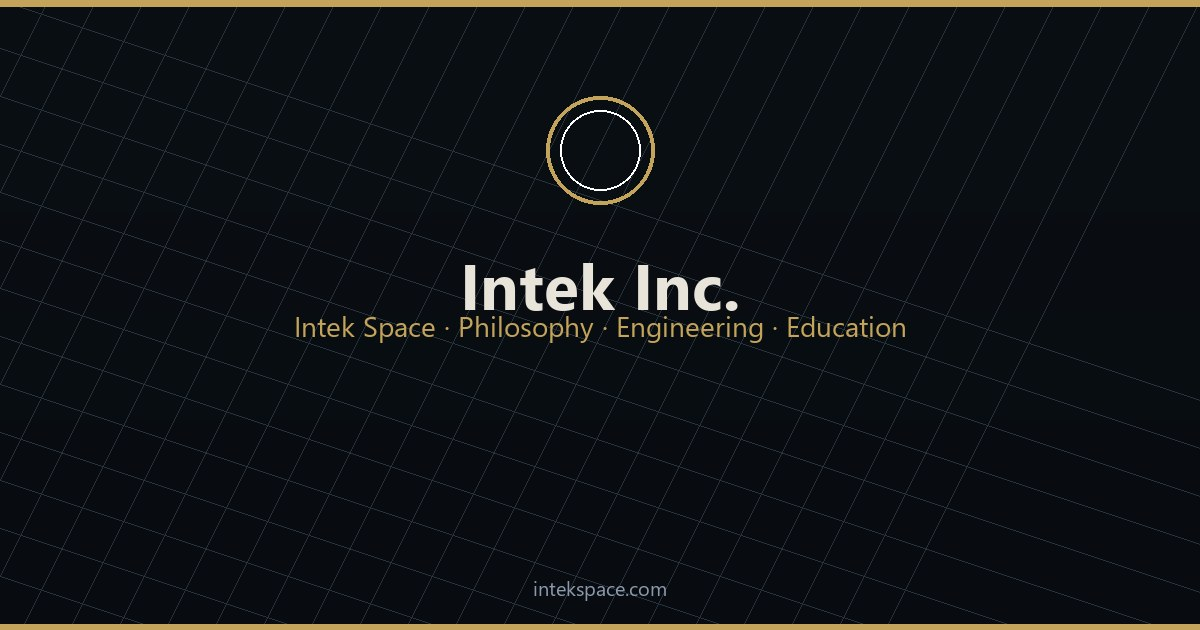
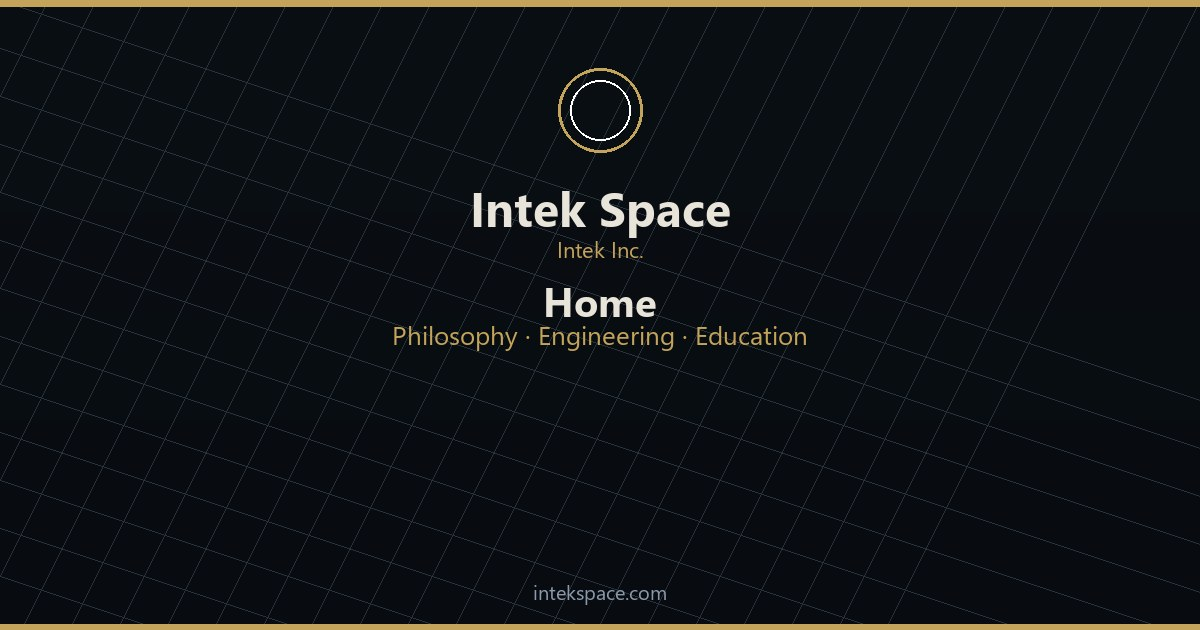
fix(brand): Intek Space primary, Intek Inc. secondary; page titles on OG cards

Changed region(s): [[0.2467, 0.3921, 0.7708, 0.573], [0.37, 0.0905, 0.6167, 0.3921], [0.4317, 0.9048, 0.555, 0.9651]]

diff --git a/js/site-chrome.js b/js/site-chrome.js
@@ -62,12 +62,16 @@
       '<div class="max-w-5xl mx-auto px-4 h-14 flex items-center justify-between gap-4">' +
       '<a href="' +
       esc(chrome.home_href || 'index.html') +
-      '" class="flex items-center gap-2.5 text-parchment min-w-0" title="Intek Inc. · Intek Space">' +
+      '" class="flex items-center gap-2.5 text-parchment min-w-0" title="Intek Space · Intek Inc.">' +
       '<span class="w-8 h-8 shrink-0 rounded-lg bg-hive/20 text-hive text-xs font-bold flex items-center justify-center">' +
       esc(chrome.mark || 'IS') +
       '</span><span class="flex flex-col leading-tight min-w-0">' +
-      '<span class="font-display text-base sm:text-lg truncate">Intek Inc.</span>' +
-      '<span class="text-[10px] sm:text-[11px] text-mist font-sans tracking-wide">Intek Space</span>' +
+      '<span class="font-display text-base sm:text-lg truncate">' +
+      esc(chrome.brand_primary || 'Intek Space') +
+      '</span>' +
+      '<span class="text-[10px] sm:text-[11px] text-mist font-sans tracking-wide">' +
+      esc(chrome.brand_secondary || 'Intek Inc.') +
+      '</span>' +
       '</span></a>' +
       '<nav class="hidden md:flex items-center gap-6">' +
       desktop +
@@ -106,7 +110,11 @@
       '<div class="flex flex-col sm:flex-row sm:items-center sm:justify-between gap-3">' +
       '<div>© <span id="y">' +
       year() +
-      '</span> Intek Inc. · Intek Space</div>' +
+      '</span> ' +
+      esc(chrome.brand_primary || 'Intek Space') +
+      ' · ' +
+      esc(chrome.brand_secondary || 'Intek Inc.') +
+      '</div>' +
       '<div class="flex flex-wrap gap-x-2 gap-y-1">' +
       navBits +
       '</div></div>' +

diff --git a/poop-to-loop.html b/poop-to-loop.html
@@ -11,11 +11,11 @@
   <meta property="og:description" content="Poop-to-Loop - substantial residual conversion project under hard refusals. Death-to-life breathe, sector overlays. Intek Space." />
   <meta property="og:type" content="website" />
   <meta property="og:url" content="https://intekspace.com/poop-to-loop" />
-  <meta property="og:image" content="https://intekspace.com/assets/og/og-poop-to-loop.jpg?v=20260802d" />
+  <meta property="og:image" content="https://intekspace.com/assets/og/og-poop-to-loop.jpg?v=20260802e" />
   <meta property="og:image:width" content="1200" />
   <meta property="og:image:height" content="630" />
   <meta name="twitter:card" content="summary_large_image" />
-  <meta name="twitter:image" content="https://intekspace.com/assets/og/og-poop-to-loop.jpg?v=20260802d" />
+  <meta name="twitter:image" content="https://intekspace.com/assets/og/og-poop-to-loop.jpg?v=20260802e" />
   <script src="analytics-config.js"></script>
   <script src="analytics.js" defer></script>
   <script src="https://cdn.tailwindcss.com"></script>

diff --git a/philosophy.html b/philosophy.html
@@ -11,11 +11,11 @@
   <meta property="og:description" content="Coherent writeup of Intek Space philosophy and nomenclature: death-to-life breathe, sector overlays, DMAIC, twin extremes, land per life." />
   <meta property="og:type" content="website" />
   <meta property="og:url" content="https://intekspace.com/philosophy" />
-  <meta property="og:image" content="https://intekspace.com/assets/og/og-philosophy.jpg?v=20260802d" />
+  <meta property="og:image" content="https://intekspace.com/assets/og/og-philosophy.jpg?v=20260802e" />
   <meta property="og:image:width" content="1200" />
   <meta property="og:image:height" content="630" />
   <meta name="twitter:card" content="summary_large_image" />
-  <meta name="twitter:image" content="https://intekspace.com/assets/og/og-philosophy.jpg?v=20260802d" />
+  <meta name="twitter:image" content="https://intekspace.com/assets/og/og-philosophy.jpg?v=20260802e" />
   <script src="analytics-config.js"></script>
   <script src="analytics.js" defer></script>
   <script src="https://cdn.tailwindcss.com"></script>

diff --git a/yard-to-loop.html b/yard-to-loop.html
@@ -11,11 +11,11 @@
   <meta property="og:description" content="Yard-to-Loop - substantial field conversion project. Land per life, death-to-life breathe, sector overlays. Intek Space." />
   <meta property="og:type" content="website" />
   <meta property="og:url" content="https://intekspace.com/yard-to-loop" />
-  <meta property="og:image" content="https://intekspace.com/assets/og/og-yard-to-loop.jpg?v=20260802d" />
+  <meta property="og:image" content="https://intekspace.com/assets/og/og-yard-to-loop.jpg?v=20260802e" />
   <meta property="og:image:width" content="1200" />
   <meta property="og:image:height" content="630" />
   <meta name="twitter:card" content="summary_large_image" />
-  <meta name="twitter:image" content="https://intekspace.com/assets/og/og-yard-to-loop.jpg?v=20260802d" />
+  <meta name="twitter:image" content="https://intekspace.com/assets/og/og-yard-to-loop.jpg?v=20260802e" />
   <script src="analytics-config.js"></script>
   <script src="analytics.js" defer></script>
   <script src="https://cdn.tailwindcss.com"></script>

diff --git a/projects.html b/projects.html
@@ -11,11 +11,11 @@
   <meta property="og:description" content="Intek Space projects: Hive King, Yard-to-Loop, Poop-to-Loop - substantial conversion systems under a philosophy of life." />
   <meta property="og:type" content="website" />
   <meta property="og:url" content="https://intekspace.com/projects" />
-  <meta property="og:image" content="https://intekspace.com/assets/og/og-projects.jpg?v=20260802d" />
+  <meta property="og:image" content="https://intekspace.com/assets/og/og-projects.jpg?v=20260802e" />
   <meta property="og:image:width" content="1200" />
   <meta property="og:image:height" content="630" />
   <meta name="twitter:card" content="summary_large_image" />
-  <meta name="twitter:image" content="https://intekspace.com/assets/og/og-projects.jpg?v=20260802d" />
+  <meta name="twitter:image" content="https://intekspace.com/assets/og/og-projects.jpg?v=20260802e" />
   <script src="analytics-config.js"></script>
   <script src="analytics.js" defer></script>
   <script src="https://cdn.tailwindcss.com"></script>

diff --git a/hive-king.html b/hive-king.html
@@ -11,11 +11,11 @@
   <meta property="og:description" content="An instrument for a living hive — vision at the door, sensing in the foundation, power from the sun." />
   <meta property="og:type" content="website" />
   <meta property="og:url" content="https://intekspace.com/hive-king" />
-  <meta property="og:image" content="https://intekspace.com/assets/og/og-hive-king.jpg?v=20260802d" />
+  <meta property="og:image" content="https://intekspace.com/assets/og/og-hive-king.jpg?v=20260802e" />
   <meta property="og:image:width" content="1200" />
   <meta property="og:image:height" content="630" />
   <meta name="twitter:card" content="summary_large_image" />
-  <meta name="twitter:image" content="https://intekspace.com/assets/og/og-hive-king.jpg?v=20260802d" />
+  <meta name="twitter:image" content="https://intekspace.com/assets/og/og-hive-king.jpg?v=20260802e" />
   <script src="analytics-config.js"></script>
   <script src="analytics.js" defer></script>
   <script src="https://cdn.tailwindcss.com"></script>

diff --git a/index.html b/index.html
@@ -11,11 +11,11 @@
   <meta property="og:description" content="All great works begin with a philosophy on life. Engineering under stewardship—the death-to-life breathe held in balance." />
   <meta property="og:type" content="website" />
   <meta property="og:url" content="https://intekspace.com/" />
-  <meta property="og:image" content="https://intekspace.com/assets/og/og-home.jpg?v=20260802d" />
+  <meta property="og:image" content="https://intekspace.com/assets/og/og-home.jpg?v=20260802e" />
   <meta property="og:image:width" content="1200" />
   <meta property="og:image:height" content="630" />
   <meta name="twitter:card" content="summary_large_image" />
-  <meta name="twitter:image" content="https://intekspace.com/assets/og/og-home.jpg?v=20260802d" />
+  <meta name="twitter:image" content="https://intekspace.com/assets/og/og-home.jpg?v=20260802e" />
   <script src="analytics-config.js"></script>
   <script src="analytics.js" defer></script>
   <script src="https://cdn.tailwindcss.com"></script>

diff --git a/education.html b/education.html
@@ -11,11 +11,11 @@
   <meta property="og:description" content="Intek Space Education Exchange - kit tracks, video evidence, honest energy and life learning." />
   <meta property="og:type" content="website" />
   <meta property="og:url" content="https://intekspace.com/education" />
-  <meta property="og:image" content="https://intekspace.com/assets/og/og-education.jpg?v=20260802d" />
+  <meta property="og:image" content="https://intekspace.com/assets/og/og-education.jpg?v=20260802e" />
   <meta property="og:image:width" content="1200" />
   <meta property="og:image:height" content="630" />
   <meta name="twitter:card" content="summary_large_image" />
-  <meta name="twitter:image" content="https://intekspace.com/assets/og/og-education.jpg?v=20260802d" />
+  <meta name="twitter:image" content="https://intekspace.com/assets/og/og-education.jpg?v=20260802e" />
   <script src="analytics-config.js"></script>
   <script src="analytics.js" defer></script>
   <script src="https://cdn.tailwindcss.com"></script>

diff --git a/education-apply.html b/education-apply.html
@@ -11,11 +11,11 @@
   <meta property="og:description" content="Apply to an Intek Space Education Exchange track." />
   <meta property="og:type" content="website" />
   <meta property="og:url" content="https://intekspace.com/education-apply" />
-  <meta property="og:image" content="https://intekspace.com/assets/og/og-education-apply.jpg?v=20260802d" />
+  <meta property="og:image" content="https://intekspace.com/assets/og/og-education-apply.jpg?v=20260802e" />
   <meta property="og:image:width" content="1200" />
   <meta property="og:image:height" content="630" />
   <meta name="twitter:card" content="summary_large_image" />
-  <meta name="twitter:image" content="https://intekspace.com/assets/og/og-education-apply.jpg?v=20260802d" />
+  <meta name="twitter:image" content="https://intekspace.com/assets/og/og-education-apply.jpg?v=20260802e" />
   <script src="analytics-config.js"></script>
   <script src="analytics.js" defer></script>
   <script src="https://cdn.tailwindcss.com"></script>
